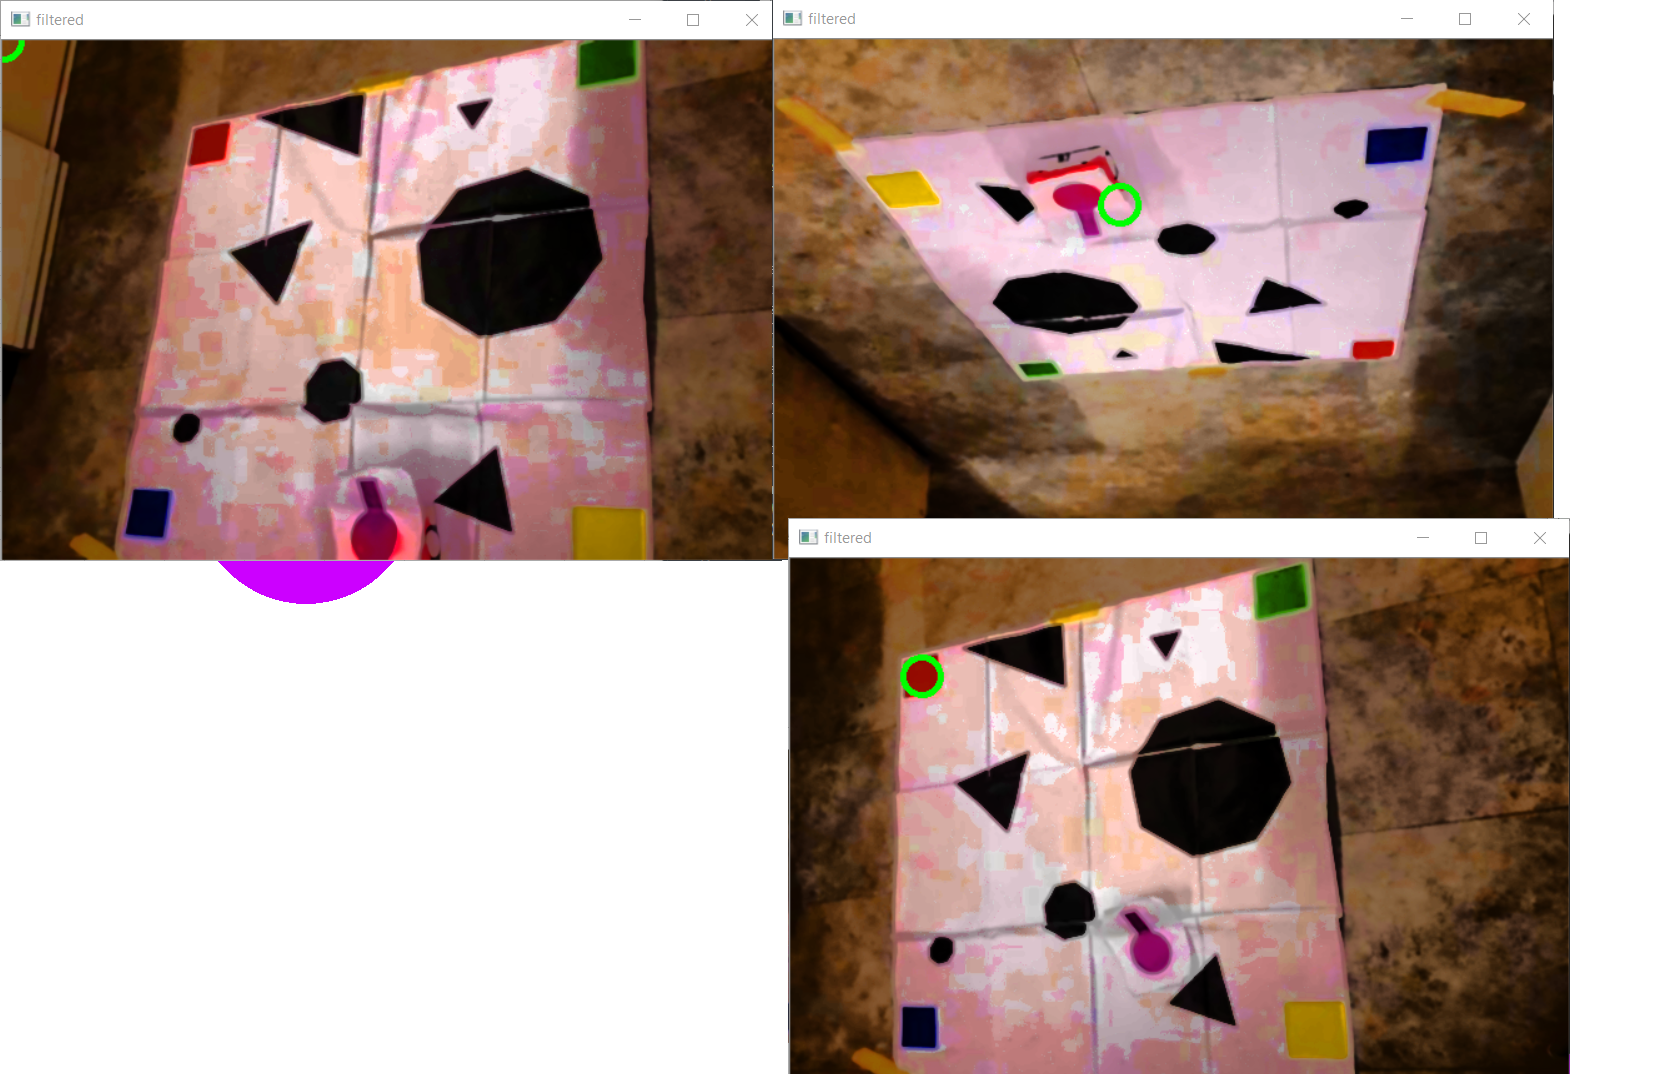
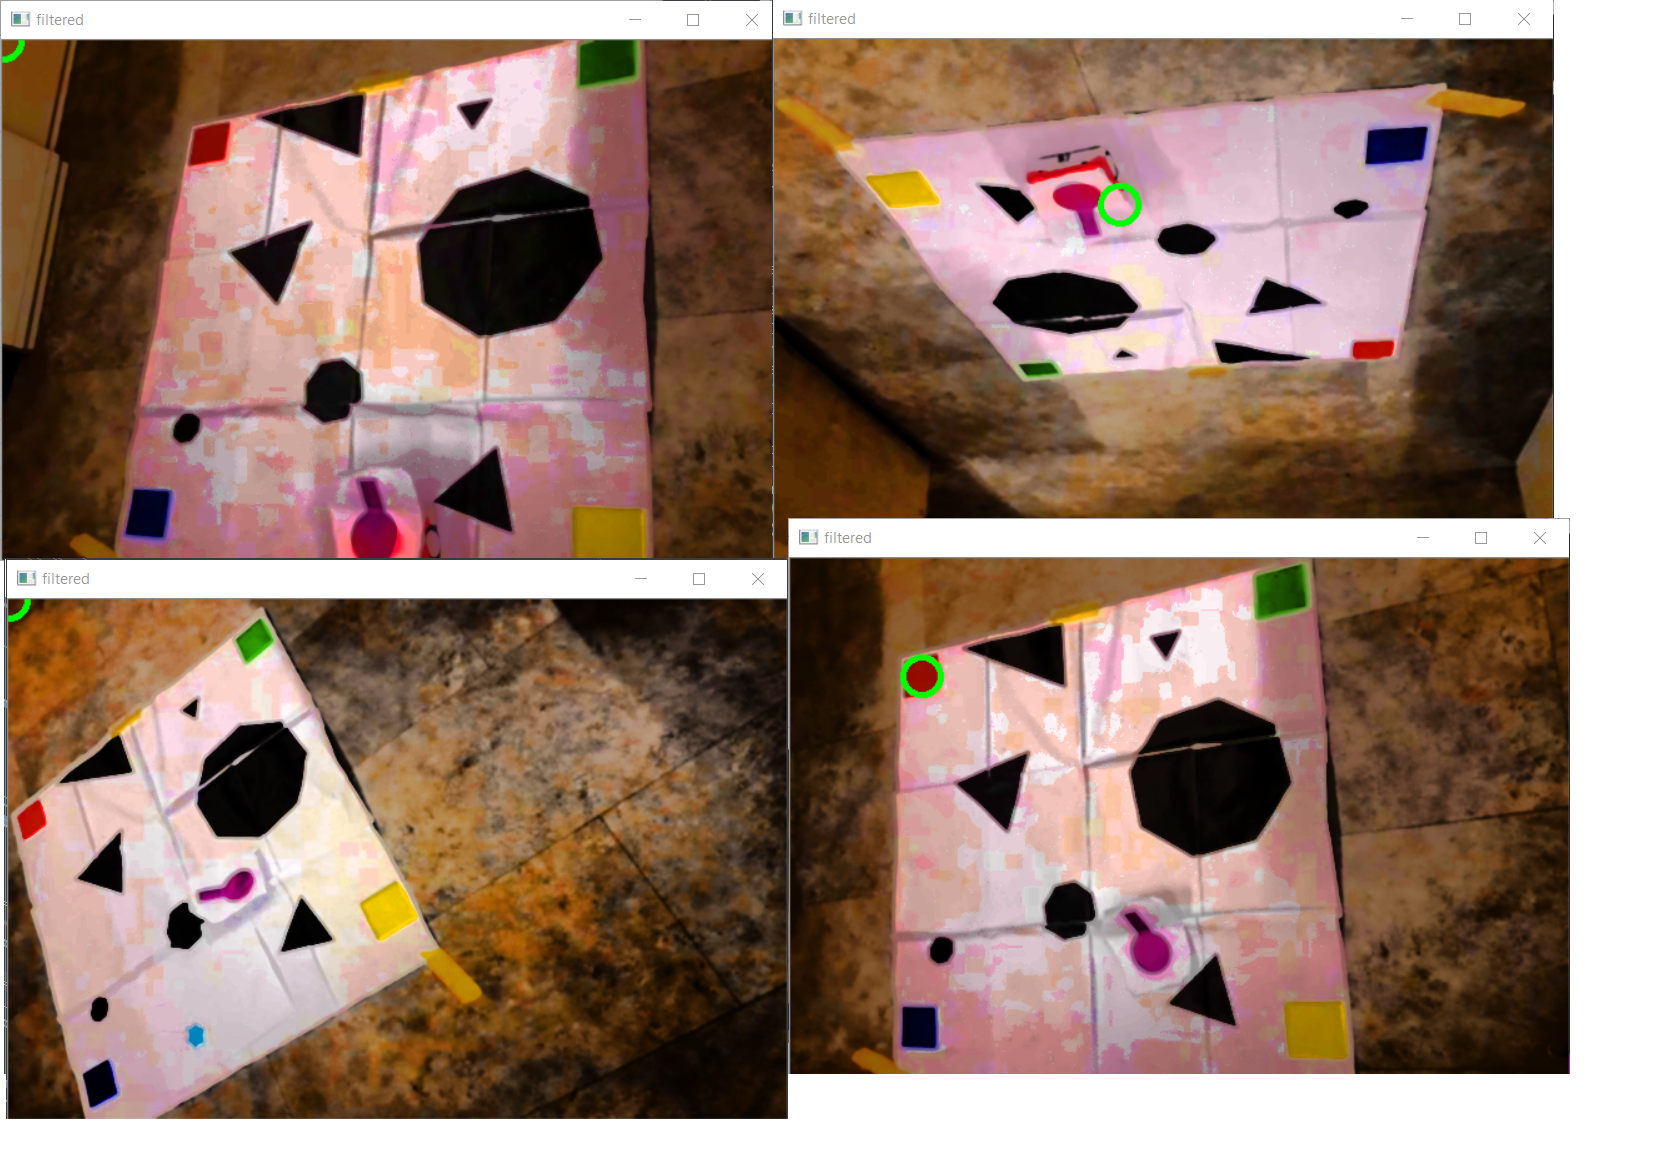
testbench2 shows how to initialise the Vision class
Both initially (first loop) and if we already had a valid transform (second loop)

diff --git a/Functions/Vision.py b/Functions/Vision.py
@@ -10,7 +10,7 @@ BIG = 1
 NONE = 2
 
 
-def getTransform(image,camera):
+def getTransform(image,camera,prevtrans):
     #return a geometric transform (usable with cv2.warpPerspective or with )
     image = preprocess(image)
     invalid = False
@@ -41,22 +41,22 @@ def getTransform(image,camera):
         print("YELLOW ERROR")
         invalid = True
     if invalid:
-        corners = np.array([[0,0],[624,0],[0,416],[624,416]], np.float32)
+        trans = prevtrans
     else:
         corners = np.array([TL,TR,BL,BR], np.float32)
-    trans = projection(corners)
+        trans = projection(corners)
     return trans,invalid
 
 class Vision:
     """ Handles vision """
     i = 12345
 
-    def __init__(self,image, camera = "ANDROID FLASK"):
+    def __init__(self,image, camera = "ANDROID FLASK", prevtrans = np.identity(3)):
         self.camera = camera
-        self.trans, invalid = getTransform(image, camera)
+        self.trans, self.invalid = getTransform(image, camera,prevtrans)
         self.setframe(image)    #generate self.frame
         self.map = createMap(self.frame,camera = camera)
-        if invalid:
+        if self.invalid:
             print("initialisation failed")
 
     def getMap(self, downscale = True):
@@ -123,7 +123,7 @@ class colorfilter:
             if color == "YELLOW":
                 self.band = np.array([[22,25],[169,255],[210,255]])
             if color == "BLUE":
-                self.band = np.array([[115,127],[73,255],[17,191]])
+                self.band = np.array([[115,127],[73,255],[9,191]])
             if color == "GREEN":
                  self.band = np.array([[41,67],[200,255],[36,255]])
             if color == "ROBOT":
@@ -160,8 +160,8 @@ class colorfilter:
             mask = cv2.morphologyEx(mask, cv2.MORPH_OPEN, np.ones((6,6)).astype("uint8"))
         elif self.morph == DEFAULT:
             mask = cv2.morphologyEx(mask, cv2.MORPH_OPEN, np.ones((7,7)).astype("uint8"))
-        elif self.morph == NONE:
-            mask = cv2.morphologyEx(mask, cv2.MORPH_OPEN, np.ones((4,4)).astype("uint8"))
+        # elif self.morph == NONE:
+        #     mask = cv2.morphologyEx(mask, cv2.MORPH_OPEN, np.ones((4,4)).astype("uint8"))
         return cv2.UMat(mask)
 
 def preprocess(img):

diff --git a/Functions/testbench streaming.py b/Functions/testbench streaming.py
@@ -15,16 +15,23 @@ DISPLAY = True
 
 cap = cv2.VideoCapture(2)
 
-ret,frame = cap.read()
 #frame = cv2.imread('../sample_pictures/new color.jpg')
-vis = v.Vision(frame, "ANDROID FLASK")
-
-
+initfailed = True
+while(initfailed):
+    ret,frame = cap.read()
+    vis = v.Vision(frame, "ANDROID FLASK")
+    initfailed = vis.invalid
+    
+    if DISPLAY:
+        cv2.imshow("frame",frame)
+        cv2.waitKey(1)
+        
+        
 while (True):
     t0 = time.process_time()
     ret,frame = cap.read()
     img_cul = cv2.resize(frame,(624,416))
-
+    vis = v.Vision(frame, "ANDROID FLASK",prevtrans = vis.trans)
     vis.setframe(frame)
     rob,coordvalid = vis.returnDynamicCoordinates()
     if DISPLAY:
@@ -49,7 +56,7 @@ while (True):
         cv2.resizeWindow('internal map', 600,600)
         cv2.imshow('internal map', cv2.cvtColor(vis.frame,cv2.COLOR_HSV2BGR))
     t1 = time.process_time()
-    #print(t1-t0)
+    print(t1-t0)
     if cv2.waitKey(1) & 0XFF == ord('q'):
         break 
 

diff --git a/Functions/tunecolorfilter_streaming.py b/Functions/tunecolorfilter_streaming.py
@@ -19,7 +19,7 @@ while(1):
     #img = cv2.imread('../sample_pictures/new color.jpg')
     img = v.preprocess(img)
     imgbgr = cv2.cvtColor(img,cv2.COLOR_HSV2BGR)
-    filterg = v.colorfilter("ROBOT", camera =CAMERA)
+    filterg = v.colorfilter("BLUE", camera =CAMERA)
     mask = filterg.get_mask(img)
     cv2.imshow('mask',mask)
     GC, flag = v.getCentroid(mask)
